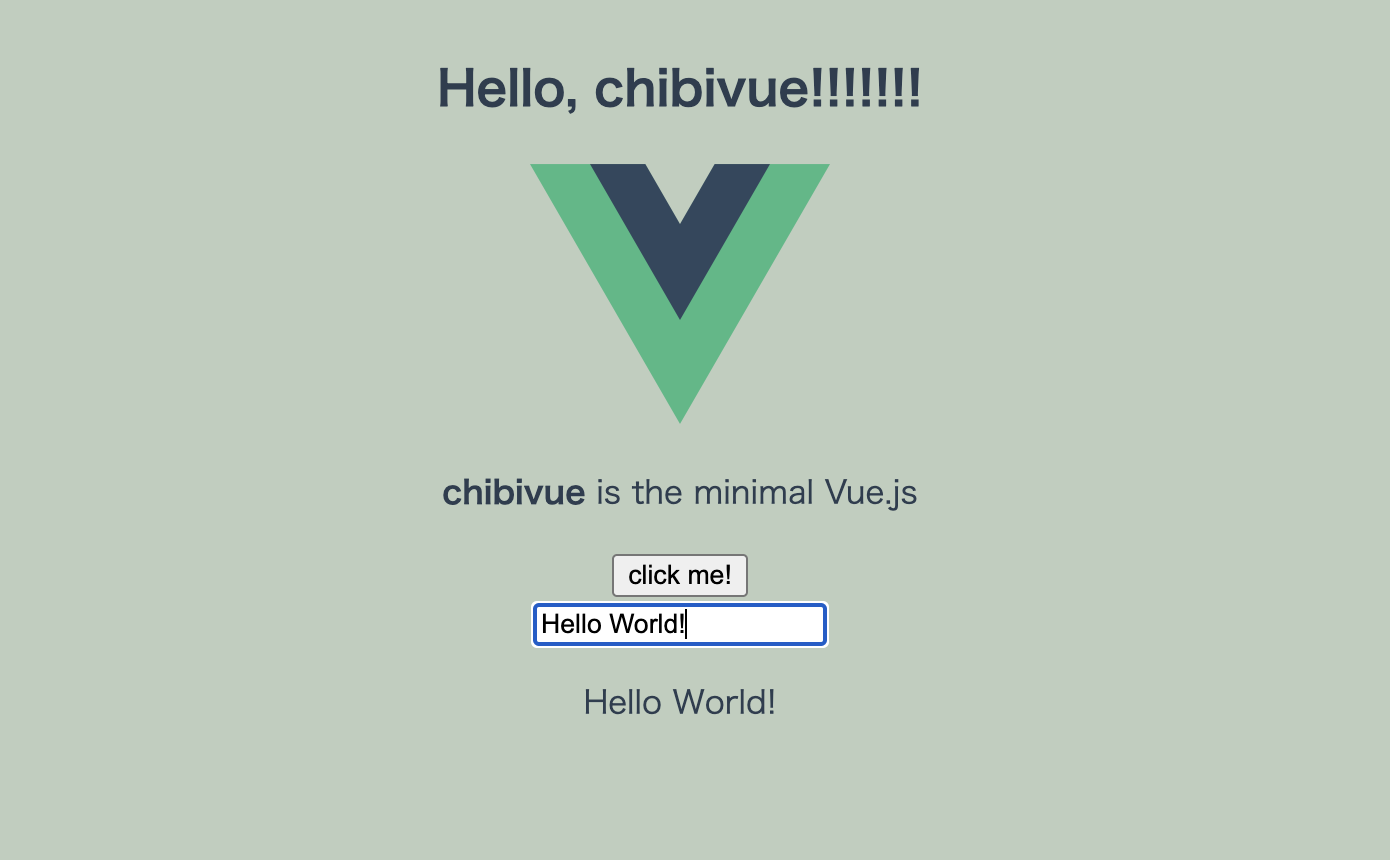
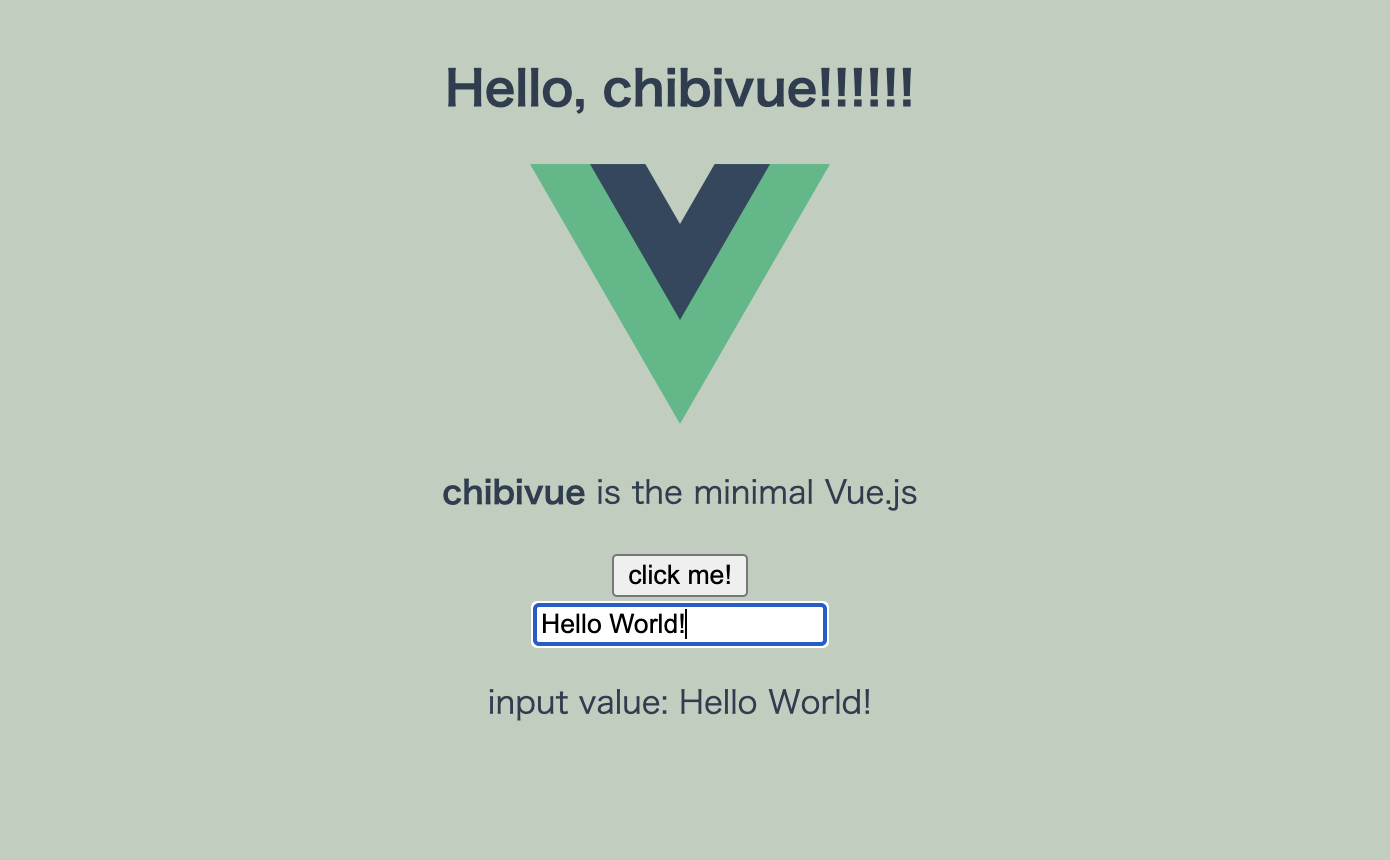
chap_code: parse interpolation in text

Changed region(s): [[0.3094, 0.0605, 0.6806, 0.1512], [0.3712, 0.786, 0.6187, 0.8465]]

diff --git a/books/chapter_codes/07-3_mininum_template_compiler/packages/compiler-core/parse.ts b/books/chapter_codes/07-3_mininum_template_compiler/packages/compiler-core/parse.ts
@@ -167,13 +167,15 @@ function parseInterpolation(
 }
 
 function parseText(context: ParserContext): TextNode {
-  const endToken = "<";
+  const endTokens = ["<", "{{"];
 
   let endIndex = context.source.length;
 
-  const index = context.source.indexOf(endToken, 1);
-  if (index !== -1 && endIndex > index) {
-    endIndex = index;
+  for (let i = 0; i < endTokens.length; i++) {
+    const index = context.source.indexOf(endTokens[i], 1);
+    if (index !== -1 && endIndex > index) {
+      endIndex = index;
+    }
   }
 
   const start = getCursor(context);

diff --git a/books/chapter_codes/07-3_mininum_template_compiler/examples/playground/src/main.ts b/books/chapter_codes/07-3_mininum_template_compiler/examples/playground/src/main.ts
@@ -29,7 +29,7 @@ const app = createApp({
       <br />
 
       <input @input="handleInput"/>
-      <p>{{ state.input }}</p>
+      <p>input value: {{ state.input }}</p>
 
       <style>
         .container {
